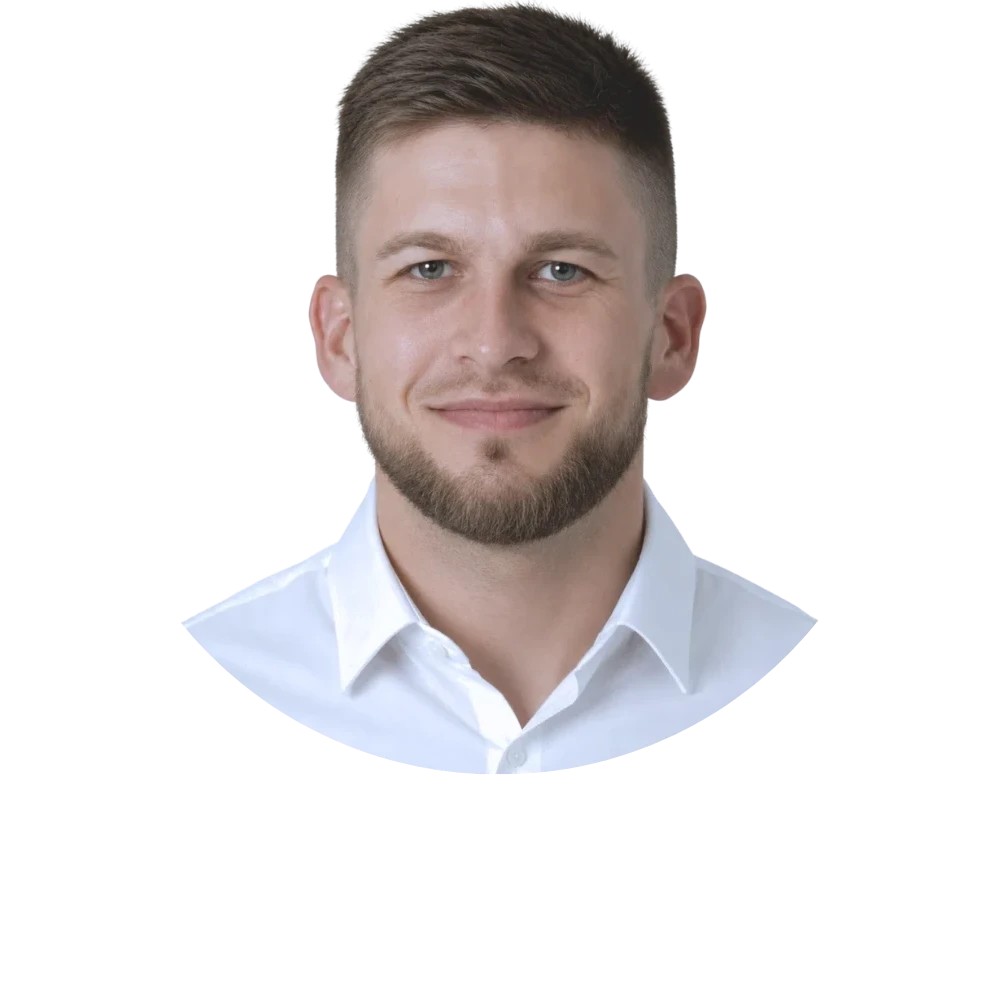
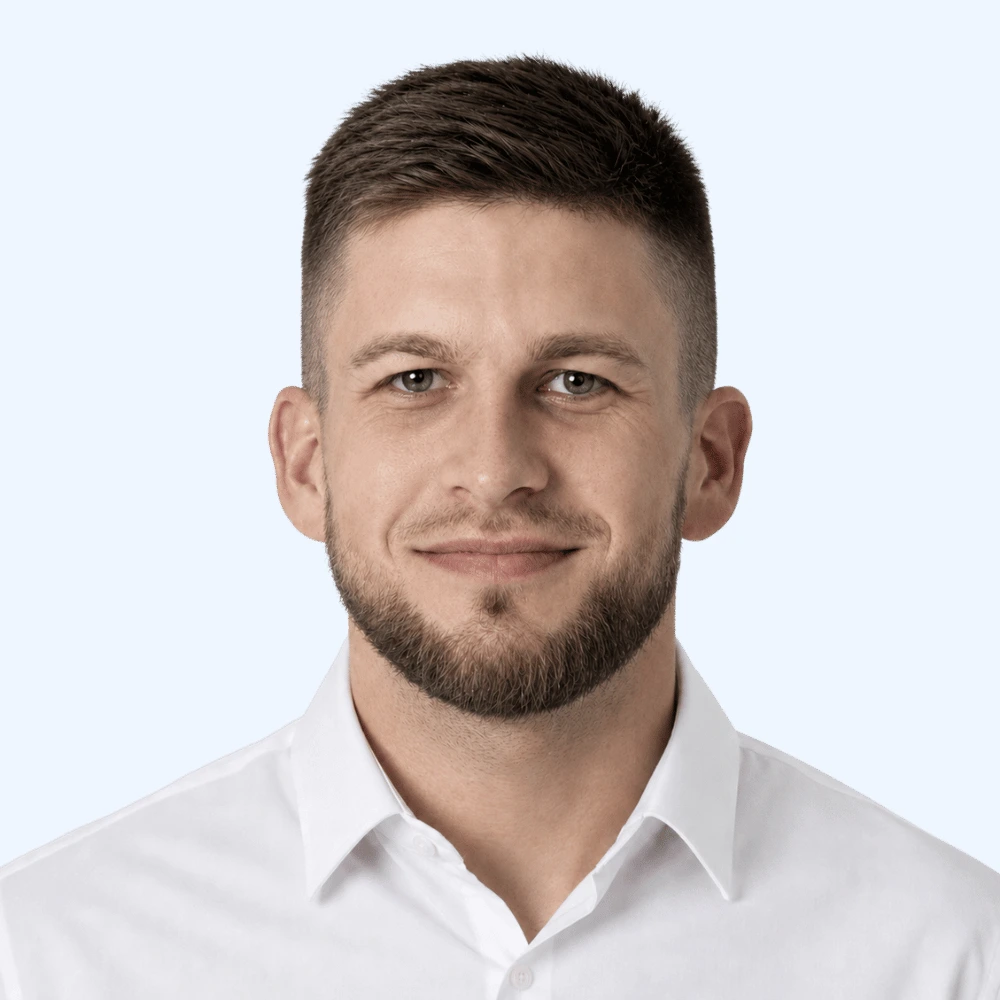
Paranda hero sissefade, eemalda scroll-bar ja uuenda founder-fotod.
CSS-põhine hero pealkiri, headeri progress-riba välja, uued WebP-portreed ja mobiilisõbralik trust-sektsioon.

diff --git a/src/components/landing/Navbar.tsx b/src/components/landing/Navbar.tsx
@@ -1,6 +1,6 @@
 import { useEffect, useState } from "react";
 import { Menu, X } from "lucide-react";
-import { motion, useMotionValueEvent, useScroll } from "framer-motion";
+import { useMotionValueEvent, useScroll } from "framer-motion";
 import { Button } from "@/components/ui/button";
 import { cn } from "@/lib/utils";
 import { AnnouncementBar } from "./AnnouncementBar";
@@ -11,7 +11,7 @@ import { siteNavLinks } from "@/lib/nav";
 export function Navbar() {
   const [scrolled, setScrolled] = useState(false);
   const [open, setOpen] = useState(false);
-  const { scrollY, scrollYProgress } = useScroll();
+  const { scrollY } = useScroll();
 
   useMotionValueEvent(scrollY, "change", (y) => {
     setScrolled(y > 12);
@@ -32,69 +32,63 @@ export function Navbar() {
             : "bg-transparent",
         )}
       >
-      <nav className="mx-auto flex max-w-6xl items-center justify-between px-5 py-3.5">
-        <a href="/" aria-label="Lehekoda" className="-ml-1 shrink-0 md:ml-0">
-          <Logo />
-        </a>
+        <nav className="mx-auto flex max-w-6xl items-center justify-between px-5 py-3.5">
+          <a href="/" aria-label="Lehekoda" className="-ml-1 shrink-0 md:ml-0">
+            <Logo />
+          </a>
 
-        <div className="hidden items-center gap-8 md:flex">
-          {siteNavLinks.map((l) => (
-            <a
-              key={l.href}
-              href={l.href}
-              className="text-sm font-medium text-muted-foreground transition-colors hover:text-foreground"
-            >
-              {l.label}
-            </a>
-          ))}
-        </div>
-
-        <div className="flex items-center gap-2">
-          <Button
-            variant="hero"
-            size="default"
-            asChild
-            className="hidden rounded-xl md:inline-flex"
-          >
-            <ContactLink>Küsi pakkumist</ContactLink>
-          </Button>
-          <button
-            aria-label="Menüü"
-            onClick={() => setOpen((o) => !o)}
-            className="grid h-9 w-9 place-items-center rounded-lg border border-border md:hidden"
-          >
-            {open ? <X className="h-5 w-5" /> : <Menu className="h-5 w-5" />}
-          </button>
-        </div>
-      </nav>
-
-      {/* Scroll progress — direct mapping, no spring (keeps header animations smooth while scrolling) */}
-      <motion.div
-        className="bg-brand absolute bottom-0 left-0 h-0.5 w-full origin-left"
-        style={{ scaleX: scrollYProgress, opacity: scrolled ? 1 : 0 }}
-      />
-
-      {open && (
-        <div className="border-t border-border bg-background/95 px-5 py-4 backdrop-blur-xl md:hidden">
-          <div className="flex flex-col gap-1">
+          <div className="hidden items-center gap-8 md:flex">
             {siteNavLinks.map((l) => (
               <a
                 key={l.href}
                 href={l.href}
-                onClick={() => setOpen(false)}
-                className="rounded-lg px-2 py-2.5 text-sm font-medium text-muted-foreground hover:bg-secondary hover:text-foreground"
+                className="text-sm font-medium text-muted-foreground transition-colors hover:text-foreground"
               >
                 {l.label}
               </a>
             ))}
-            <Button variant="hero" className="mt-2 rounded-xl" asChild>
-              <ContactLink onClick={() => setOpen(false)}>
-                Küsi pakkumist
-              </ContactLink>
-            </Button>
           </div>
-        </div>
-      )}
+
+          <div className="flex items-center gap-2">
+            <Button
+              variant="hero"
+              size="default"
+              asChild
+              className="hidden rounded-xl md:inline-flex"
+            >
+              <ContactLink>Küsi pakkumist</ContactLink>
+            </Button>
+            <button
+              aria-label="Menüü"
+              onClick={() => setOpen((o) => !o)}
+              className="grid h-9 w-9 place-items-center rounded-lg border border-border md:hidden"
+            >
+              {open ? <X className="h-5 w-5" /> : <Menu className="h-5 w-5" />}
+            </button>
+          </div>
+        </nav>
+
+        {open && (
+          <div className="border-t border-border bg-background/95 px-5 py-4 backdrop-blur-xl md:hidden">
+            <div className="flex flex-col gap-1">
+              {siteNavLinks.map((l) => (
+                <a
+                  key={l.href}
+                  href={l.href}
+                  onClick={() => setOpen(false)}
+                  className="rounded-lg px-2 py-2.5 text-sm font-medium text-muted-foreground hover:bg-secondary hover:text-foreground"
+                >
+                  {l.label}
+                </a>
+              ))}
+              <Button variant="hero" className="mt-2 rounded-xl" asChild>
+                <ContactLink onClick={() => setOpen(false)}>
+                  Küsi pakkumist
+                </ContactLink>
+              </Button>
+            </div>
+          </div>
+        )}
       </header>
     </div>
   );

diff --git a/src/components/landing/Hero.tsx b/src/components/landing/Hero.tsx
@@ -1,5 +1,3 @@
-import { useRef } from "react";
-import { motion, useScroll, useTransform, type MotionValue } from "framer-motion";
 import {
   ArrowRight,
   Search,
@@ -17,21 +15,13 @@ import { ContactLink } from "./ContactLink";
 const heroPillClass = "h-12 rounded-full px-6 font-semibold tracking-tight";
 
 export function Hero() {
-  const ref = useRef<HTMLDivElement>(null);
-  const { scrollYProgress } = useScroll({
-    target: ref,
-    offset: ["start start", "end start"],
-  });
-  const bgY = useTransform(scrollYProgress, [0, 1], [0, 120]);
-
   return (
     <section
-      ref={ref}
       id="top"
       className="relative isolate flex min-h-[90vh] items-center overflow-hidden pb-16 pt-32 md:pt-36 lg:min-h-screen lg:items-start lg:pt-40"
     >
       <div aria-hidden className="absolute inset-0 bg-secondary" />
-      <HeroBackground bgY={bgY} />
+      <HeroBackground />
 
       <div className="relative z-10 mx-auto w-full max-w-6xl px-5">
         <div className="grid items-center gap-10 text-center lg:block">
@@ -42,37 +32,19 @@ export function Hero() {
 
           {/* ── Copy ── */}
           <div className="order-2 mx-auto max-w-3xl" data-hero-copy>
-          <motion.div
-            initial={{ opacity: 0, y: 14 }}
-            animate={{ opacity: 1, y: 0 }}
-            transition={{ duration: 0.5 }}
-            className="eyebrow"
-          >
-            <span className="relative flex h-1.5 w-1.5">
-              <span className="absolute inline-flex h-full w-full animate-ping rounded-full bg-brand opacity-70" />
-              <span className="relative inline-flex h-1.5 w-1.5 rounded-full bg-brand" />
-            </span>
+          <div className="hero-enter hero-enter-delay-1 eyebrow">
+            <span className="inline-flex h-1.5 w-1.5 rounded-full bg-brand" />
             Veebilehed Eesti ettevõtetele
-          </motion.div>
+          </div>
 
-          <motion.h1
-            initial={{ opacity: 0, y: 22 }}
-            animate={{ opacity: 1, y: 0 }}
-            transition={{ duration: 0.7, delay: 0.07 }}
-            className="mt-6 text-balance text-[2.6rem] font-bold leading-[1.03] md:text-[3.25rem] lg:text-[3.7rem]"
-          >
+          <h1 className="hero-enter hero-enter-delay-2 mt-6 text-balance text-[2.6rem] font-bold leading-[1.03] md:text-[3.25rem] lg:text-[3.7rem]">
             Koduleht, mis võidab{" "}
             <span className="text-brand">kliendi usalduse</span>
-          </motion.h1>
+          </h1>
 
-          <HeroAnimatedSubtitle className="mx-auto mt-5 max-w-[480px]" />
+          <HeroAnimatedSubtitle className="hero-enter hero-enter-delay-3 mx-auto mt-5 max-w-[480px]" />
 
-          <motion.div
-            initial={{ opacity: 0, y: 18 }}
-            animate={{ opacity: 1, y: 0 }}
-            transition={{ duration: 0.6, delay: 0.26 }}
-            className="mt-9"
-          >
+          <div className="hero-enter hero-enter-delay-4 mt-9">
             {/* Mobile + tablet */}
             <div className="flex flex-col items-stretch gap-3 lg:hidden">
               <div className="flex flex-col gap-3 sm:flex-row sm:items-stretch">
@@ -123,7 +95,7 @@ export function Hero() {
 
               <HeroPriceBadge className={cn(heroPillClass, "justify-self-start")} />
             </div>
-          </motion.div>
+          </div>
           </div>
         </div>
 
@@ -160,18 +132,14 @@ function HeroPriceBadge({ className }: { className?: string }) {
   );
 }
 
-function HeroBackground({ bgY }: { bgY: MotionValue<number> }) {
+function HeroBackground() {
   return (
-    <motion.div
-      style={{ y: bgY }}
-      aria-hidden
-      className="pointer-events-none absolute inset-0 z-0"
-    >
+    <div aria-hidden className="pointer-events-none absolute inset-0 z-0">
       <div className="bg-grid absolute inset-0 opacity-[0.14] [mask-image:radial-gradient(70%_58%_at_50%_42%,black,transparent)]" />
       <div className="absolute inset-0 [mask-image:radial-gradient(ellipse_72%_62%_at_50%_44%,transparent_36%,black_100%)]">
         <HeroCircuitPattern className="h-full w-full opacity-90" />
       </div>
-    </motion.div>
+    </div>
   );
 }
 

diff --git a/src/styles.css b/src/styles.css
@@ -275,6 +275,37 @@
     isolation: isolate;
   }
 
+  /* Hero copy — compositor-only entrance (no Framer on the headline) */
+  .hero-enter {
+    opacity: 0;
+    transform: translate3d(0, 14px, 0);
+    animation: hero-enter 0.55s cubic-bezier(0.22, 1, 0.36, 1) forwards;
+    will-change: transform, opacity;
+  }
+
+  .hero-enter-delay-1 {
+    animation-delay: 0.04s;
+  }
+
+  .hero-enter-delay-2 {
+    animation-delay: 0.1s;
+  }
+
+  .hero-enter-delay-3 {
+    animation-delay: 0.16s;
+  }
+
+  .hero-enter-delay-4 {
+    animation-delay: 0.22s;
+  }
+
+  @keyframes hero-enter {
+    to {
+      opacity: 1;
+      transform: translate3d(0, 0, 0);
+    }
+  }
+
   /* Compositor-driven hero carousels — stay smooth while the page scrolls */
   .hero-subtitle-viewport {
     contain: strict;
@@ -297,7 +328,7 @@
   .hero-subtitle-strip {
     will-change: transform;
     backface-visibility: hidden;
-    animation: hero-subtitle-rotate 13s cubic-bezier(0.42, 0, 0.2, 1) infinite;
+    animation: hero-subtitle-rotate 13s cubic-bezier(0.42, 0, 0.2, 1) 0.4s infinite;
   }
 
   .announcement-strip {
@@ -373,6 +404,13 @@
   }
 
   @media (prefers-reduced-motion: reduce) {
+    .hero-enter {
+      animation: none;
+      opacity: 1;
+      transform: none;
+      will-change: auto;
+    }
+
     .hero-subtitle-strip,
     .announcement-strip {
       animation: none;

diff --git a/src/components/landing/TrustSection.tsx b/src/components/landing/TrustSection.tsx
@@ -8,13 +8,14 @@ const founders = [
     role: "tekstid ja struktuur",
     photo: "/team/henri.webp",
     className: "relative z-10 lg:-translate-y-1",
-    photoClassName: "translate-x-[3px] translate-y-[2px]",
+    photoClassName: "object-[center_18%]",
   },
   {
     name: "Jaagup",
     role: "disain ja tehniline teostus",
     photo: "/team/jaagup.webp",
     className: "relative z-0 lg:translate-y-3",
+    photoClassName: "object-[center_20%]",
   },
 ];
 
@@ -49,26 +50,21 @@ function FounderPortrait({
           aria-hidden
           className="absolute inset-0 rounded-full bg-gradient-to-b from-[#DBEAFE] via-[#EFF6FF] to-white shadow-[0_18px_44px_rgba(37,99,235,0.14)]"
         />
+        <div className="absolute inset-[5%] overflow-hidden rounded-full bg-[#EFF6FF]">
+          <img
+            src={photo}
+            alt={`${name} — Lehekoda kaasasutaja`}
+            width={400}
+            height={400}
+            sizes="(min-width: 1024px) 200px, (min-width: 640px) 176px, 42vw"
+            className={cn("h-full w-full object-cover object-center", photoClassName)}
+            loading="lazy"
+            decoding="async"
+          />
+        </div>
         <div
           aria-hidden
-          className="absolute inset-[5%] rounded-full border border-[#BFDBFE]/90 bg-[#F8FAFC]/80"
-        />
-        <div
-          aria-hidden
-          className="absolute inset-[10%] rounded-full bg-[radial-gradient(circle_at_50%_18%,rgba(255,255,255,0.95),rgba(239,246,255,0.4)_58%,transparent_100%)]"
-        />
-        <img
-          src={photo}
-          alt={`${name} — Lehekoda kaasasutaja`}
-          width={400}
-          height={400}
-          sizes="(min-width: 1024px) 200px, (min-width: 640px) 176px, 42vw"
-          className={cn(
-            "relative z-10 h-full w-full object-contain object-bottom drop-shadow-[0_10px_24px_rgba(15,23,42,0.1)]",
-            photoClassName,
-          )}
-          loading="lazy"
-          decoding="async"
+          className="pointer-events-none absolute inset-[5%] rounded-full border border-[#BFDBFE]/90"
         />
       </div>
       <figcaption className="mt-3.5 text-center lg:text-left">
@@ -128,7 +124,7 @@ export function TrustSection() {
               {/* Mobile 4 · Desktop col 1 */}
               <div className="order-2 lg:col-start-1 lg:row-span-2 lg:row-start-1 lg:self-center">
                 <div className="rounded-[24px] border border-[#E2E8F0] bg-[#F8FAFC] p-5 lg:p-6">
-                  <div className="mx-auto flex max-w-[360px] items-end justify-center gap-4 sm:max-w-none sm:gap-5 lg:mx-0 lg:justify-start">
+                  <div className="mx-auto flex w-full items-end justify-center gap-4 sm:max-w-none sm:gap-5 lg:mx-0 lg:justify-start">
                     {founders.map((person) => (
                       <FounderPortrait
                         key={person.name}
@@ -136,7 +132,7 @@ export function TrustSection() {
                         role={person.role}
                         photo={person.photo}
                         photoClassName={person.photoClassName}
-                        className={`w-[min(46vw,10.5rem)] sm:w-44 lg:w-[12.5rem] ${person.className}`}
+                        className={`min-w-0 w-[calc(50%-0.5rem)] sm:w-44 lg:w-[12.5rem] ${person.className}`}
                       />
                     ))}
                   </div>